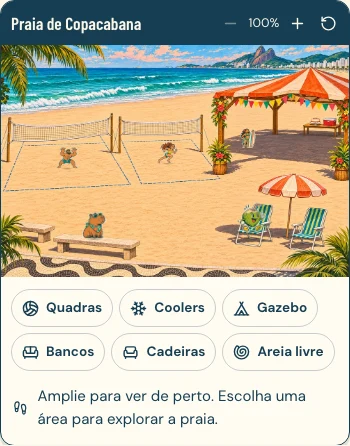
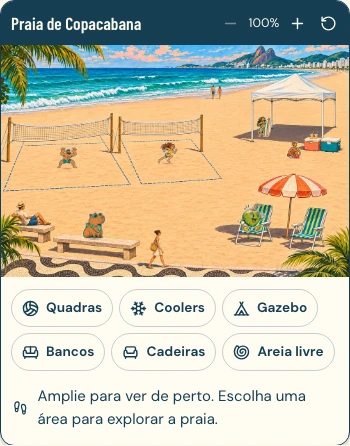
Refine the Copacabana playground and sticker gathering spots
Add four background beachgoers and replace the striped gazebo with a light white canopy. Align its snap points with the shade, give the coolers four gathering spots, and reserve the long bench for stickers.

Cover the revised placement zones in tests and refresh the desktop and mobile screenshots.

Changed region(s): [[0.5143, 0.1457, 1.0, 0.4081], [0.0286, 0.4372, 0.1429, 0.5247], [0.4, 0.4955, 0.4857, 0.6121]]

diff --git a/lib/beach.ts b/lib/beach.ts
@@ -47,25 +47,26 @@ export const zones = {
     name: "Coolers",
     line: "Tem gelo aí? A turma da hidratação tá de plantão.",
     width: 0.055,
-    regions: [path([1324, 399], [1493, 402], [1470, 447], [1310, 438])],
-    anchors: path([1386, 427], [1464, 430]),
+    regions: [
+      path([1180, 461], [1331, 431], [1505, 473], [1500, 558], [1240, 564]),
+    ],
+    anchors: path([1292, 502], [1436, 548], [1220, 486], [1334, 552]),
   },
   gazebo: {
     name: "Gazebo",
     line: "Na sombra sempre cabe mais uma cadeira.",
     width: 0.061,
-    regions: [path([995, 372], [1492, 369], [1454, 536], [1004, 512])],
-    anchors: path([1090, 453], [1256, 462], [1364, 490], [1174, 502]),
+    regions: [
+      path([1109, 400], [1195, 349], [1474, 356], [1418, 431], [1108, 438]),
+    ],
+    anchors: path([1160, 403], [1251, 383], [1354, 376], [1304, 425]),
   },
   torcida: {
     name: "Bancos",
     line: "Vale gritar ponto até quando a bola cai fora!",
     width: 0.083,
-    regions: [
-      path([68, 780], [237, 791], [225, 873], [80, 856]),
-      path([228, 832], [613, 856], [601, 949], [229, 919]),
-    ],
-    anchors: path([413, 856], [544, 868], [295, 850], [168, 802]),
+    regions: [path([228, 832], [613, 856], [601, 949], [229, 919])],
+    anchors: path([413, 856], [544, 868], [295, 850]),
   },
   cadeiras: {
     name: "Cadeiras",
@@ -126,9 +127,10 @@ export function placementAt(
 const beachEdge = path(
   [0, 321],
   [900, 223],
-  [934, 224],
-  [977, 396],
-  [1536, 413],
+  [1051, 218],
+  [1108, 394],
+  [1195, 350],
+  [1536, 359],
 );
 const edgeMargin = Math.max(...zoneIds.map((id) => zones[id].width)) / 2;
 export function playable(point: Point): Point {

diff --git a/tests/beach.test.ts b/tests/beach.test.ts
@@ -14,6 +14,7 @@ import {
   zoneAt,
   zoneIds,
   zones,
+  type Point,
 } from "../lib/beach";
 
 test("the saved center restores the same feet after panning, zooming and resizing", () => {
@@ -87,12 +88,25 @@ test("a nearby free seat snaps, occupied seats and open sand allow fine placemen
   );
 });
 
+test("four guests can gather at the coolers and the occupied small bench has no snap point", () => {
+  const group: Point[] = [];
+  for (const anchor of zones.coolers.anchors) {
+    const next = suggestSpot("coolers", group);
+    assert.deepEqual(next, { ...anchor, zone_id: "coolers" });
+    assert.deepEqual(nearbyAnchor(anchor, group), anchor);
+    group.push(next);
+  }
+  assert.equal(group.length, 4);
+  const occupiedBench = { x: 168 / 1536, y: 802 / 1024 };
+  assert.equal(nearbyAnchor(occupiedBench, []), undefined);
+});
+
 test("out-of-bounds drops stay on sand and every converted center fits the database", () => {
   for (const x of [-4, 0.32, 0.63, 0.85, 3]) {
     for (const y of [-5, 0.5, 2]) {
       const point = destination({ x, y }, [], true);
       assert.ok(point.y > 0.2 && point.y < 0.95);
-      if (x >= 0.85) assert.ok(point.y > 0.38);
+      if (x >= 0.85) assert.ok(point.y > 0.34);
       for (const sticker of stickerIds)
         assert.ok(
           placementSchema.safeParse(placementAt(point, sticker)).success,

diff --git a/tests/e2e-rsvp/beach.spec.ts b/tests/e2e-rsvp/beach.spec.ts
@@ -28,7 +28,7 @@ test("exploration, consent, gallery, intentional placement, reload and repositio
   await map.screenshot({ ...capture, path: info.outputPath("empty.png") });
   await request.post(mock + "/__control", { data: { populateBeach: true } });
   await page.reload();
-  await expect(scene.locator(".placed-sticker")).toHaveCount(5);
+  await expect(scene.locator(".placed-sticker")).toHaveCount(6);
   await map.screenshot({ ...capture, path: info.outputPath("populated.png") });
   await scene.getByRole("button", { name: "Gazebo", exact: true }).click();
   await expect(scene.locator(".beach-discovery")).toContainText("Na sombra");
@@ -122,7 +122,7 @@ test("exploration, consent, gallery, intentional placement, reload and repositio
           (await (await request.get(mock + "/__state")).json()).placements,
         ).length,
     )
-    .toBe(5);
+    .toBe(6);
   await scene.getByRole("button", { name: "Guardar lugar" }).click();
   await expect(scene.locator(".beach-feedback")).toHaveText("Lugar guardado!");
   const owner = "guest-test-maria";

diff --git a/components/beach/scene-viewport.tsx b/components/beach/scene-viewport.tsx
@@ -218,7 +218,7 @@ export function SceneViewport({
               draggable={false}
               onLoad={() => setFailed(false)}
               onError={() => setFailed(true)}
-              alt="Praia de Copacabana com duas quadras à esquerda, gazebo listrado à direita, bancos e cadeiras na areia."
+              alt="Praia de Copacabana com duas quadras à esquerda, gazebo branco e coolers à direita. Há banhistas à beira-mar, uma pessoa no banco e outra no calçadão."
             />
           </picture>
           {failed && (

diff --git a/tests/fixtures/neon-auth-server.ts b/tests/fixtures/neon-auth-server.ts
@@ -83,6 +83,7 @@ async function populateBeach() {
     ["Caio", "capivara", "torcida", 0],
     ["Bia", "surfista", "gazebo", 0],
     ["Davi", "coco", "cadeiras", 0],
+    ["Iara", "salva-vidas", "coolers", 0],
   ] as const;
   for (const [name, sticker, zone, index] of samples) {
     const { x, y } = placementAt(

diff --git a/docs/PRAIA.md b/docs/PRAIA.md
@@ -6,8 +6,8 @@ A seção **Expectativas** abre um mapa de Copacabana com seis áreas exploráve
 
 | Arquivo | Uso | Dimensões | Tamanho |
 | --- | --- | --- | --- |
-| [Copacabana](../public/beach/copacabana.webp) | Mapa detalhado e zoom | 1536 × 1024 | 530 KiB |
-| [Copacabana no celular](../public/beach/copacabana-small.webp) | Primeira vista em telas de até 700 px | 1000 × 667 | 239 KiB |
+| [Copacabana](../public/beach/copacabana.webp) | Mapa detalhado e zoom | 1536 × 1024 | 381 KiB |
+| [Copacabana no celular](../public/beach/copacabana-small.webp) | Primeira vista em telas de até 700 px | 1000 × 667 | 185 KiB |
 | [12 figurinhas](../public/beach/stickers/) | Álbum, convidados e rascunho | 256 × 256 cada | 305 KiB no total |
 
 A ilustração e as figurinhas foram produzidas para o convite com o ImageGen integrado. O original do mapa tem 1536 px de largura, abaixo dos 3000 px sugeridos no brief. Os PNGs de origem ficam fora do diretório público. O navegador carrega o mapa sob demanda e o álbum tem um pacote JavaScript separado. A caixa da cena reserva espaço antes de a imagem chegar. [Arte e prompt do mapa](art/copacabana.md) · [Inventário, folha original e prompt das figurinhas](art/stickers.md)
@@ -16,7 +16,7 @@ A ilustração e as figurinhas foram produzidas para o convite com o ImageGen in
 
 A arte, as áreas de interação e as figurinhas compartilham uma superfície de proporção 3:2. A vista inicial mostra o mapa inteiro no celular. Escolher uma área ou começar a posicionar uma figurinha amplia o mapa em telas estreitas. Com zoom, é possível deslizar a praia ou usar o botão de centralizar. Apenas o arraste iniciado sobre a própria figurinha captura o dedo.
 
-Os polígonos e os pontos sugeridos foram traçados sobre a ilustração de 1536 × 1024 e convertidos em frações. As duas quadras têm seis posições sugeridas ao todo. O gazebo tem quatro, os bancos têm quatro e cada cadeira tem uma. Há também lugares perto dos coolers e uma área de areia livre. O atalho dá preferência a um ponto desocupado. No arraste, um pequeno anel aparece junto a um ponto disponível e a figurinha se acomoda ali ao soltar. Em areia livre, ela fica onde foi solta. O mesmo editor aceita toque e setas do teclado, com Shift para um passo maior. Apenas **Guardar lugar** grava a alteração. [Geometria e catálogo](../lib/beach.ts)
+Os polígonos e os pontos sugeridos foram traçados sobre a ilustração de 1536 × 1024 e convertidos em frações. As duas quadras têm seis posições sugeridas ao todo. Há quatro lugares à sombra do gazebo branco, quatro ao redor dos coolers, três no banco comprido e um em cada cadeira. O banco menor já tem um banhista pintado. O atalho dá preferência a um ponto desocupado. No arraste, um pequeno anel aparece junto a um ponto disponível e a figurinha se acomoda ali ao soltar. Em areia livre, ela fica onde foi solta. O mesmo editor aceita toque e setas do teclado, com Shift para um passo maior. Apenas **Guardar lugar** grava a alteração. [Geometria e catálogo](../lib/beach.ts)
 
 As posições de interação usam a borda inferior visível de cada desenho. O aplicativo converte esse ponto no centro do quadrado antes de salvar. Na leitura, faz a conversão inversa com a largura definida pela área e a margem transparente da figurinha. Assim, os centros normalizados e os seis identificadores de área já gravados continuam válidos, sem migração. O ID histórico `torcida` identifica os bancos e `beira-mar` identifica a areia livre. Os limites da areia se aplicam ao reposicionar.
 
@@ -36,7 +36,7 @@ Inicialize o [schema da aplicação](../db/001_initial.sql) no banco Neon. O map
 
 As capturas abaixo usam convidados fictícios do servidor de testes. Não há convidados de exemplo no aplicativo.
 
-| Dispositivo | Praia vazia | Mapa com convidados | Seleção | Posicionamento com zoom |
+| Dispositivo | Praia sem figurinhas | Mapa com convidados | Seleção | Posicionamento com zoom |
 | --- | --- | --- | --- | --- |
 | Desktop | [Vista inicial](screenshots/beach/desktop-empty.webp) | [Mapa](screenshots/beach/desktop-populated.webp) | [Álbum](screenshots/beach/desktop-album.webp) | [Arraste](screenshots/beach/desktop-dragging.webp) |
 | Celular | [Vista inicial](screenshots/beach/mobile-empty.webp) | [Mapa](screenshots/beach/mobile-populated.webp) | [Álbum](screenshots/beach/mobile-album.webp) | [Arraste](screenshots/beach/mobile-dragging.webp) |

diff --git a/docs/art/copacabana.md b/docs/art/copacabana.md
@@ -1,8 +1,12 @@
 # Ilustração de Copacabana
 
-O [original em PNG](copacabana.png) registra a festa cheia. A edição para o playground usa esse original como referência no ImageGen integrado. O [WebP de 1536 × 1024](../../public/beach/copacabana.webp) e a [versão para celular](../../public/beach/copacabana-small.webp) mostram a mesma praia antes da chegada dos convidados. A ilustração inteira é uma camada raster.
+O [original em PNG](copacabana.png) registra a festa cheia. A edição atual foi feita no ImageGen integrado a partir da versão com a praia vazia. O [mapa de 1536 × 1024](../../public/beach/copacabana.webp) e a [versão para celular](../../public/beach/copacabana-small.webp) usam a mesma pintura. Os quatro banhistas e passantes fazem parte do fundo.
 
-## Prompt de edição
+## Prompt da edição atual
+
+Edit this exact 3:2 Copacabana playground painting. Keep camera, full-bleed framing, original landmark locations and scale of both nets, benches, striped chairs/parasol, corner palms, wave mosaic, clouds and coastline. Keep warm afternoon screen-printed travel-poster illustration. Replace the heavy timber striped gazebo in the upper right with a modest white square pop-up event canopy, plain white shallow peaked fabric roof (visible pale blue/cream fabric folds), four slender white metal legs, no flowers or bunting; fit it within the old footprint, a little smaller, leave clear shaded interior for guests. Make a compact, immediately recognizable refreshments nook just outside the canopy on its right/front flank: two picnic ice chests in soft coral and deep turquoise with ivory lids, handles and latches, a tiny drinks detail if useful. Keep open sand for several guests beside and in front of them, separated from the courts and chairs. Add just four quiet human figures, painted directly into this setting with soft outlines and shadows: two tiny distant waders/walkers on the sand beside the surf, one relaxed seated beachgoer on the far left small bench (keep the long bench empty), one subdued walker on the bottom wave promenade near its left or center edge. They must be scaled modestly, naturally in perspective, secondary to guest stickers; keep their whole figures visible. Keep existing usable open spaces, both volleyball courts, both striped chairs, canopy interior and refreshments nook empty of people. Same reference style, no sticker borders, text, labels, UI, or extra objects. Return only full finished landscape artwork, 1536x1024.
+
+## Prompt da edição anterior
 
 Edit this exact Copacabana illustration into the empty venue before the party. Preserve its 3:2 full-bleed framing, original viewpoint, landscape, bold hand-painted screen-print travel-poster craft and warm afternoon palette. Clear every person, animal, ball, bag, towel and loose decorative object. Retain the two adjacent empty volleyball courts with nets on the mid-left, the big coral-and-cream gazebo on the upper right with a wide clear opening, enough exposed shaded sand underneath to stand several guests. Keep just one small cake and a cooler on a narrow table tucked into the far right rear of the gazebo. Keep the two empty benches lower left and two empty striped beach chairs lower right, with one parasol. Keep original waves, distant skyline, corner fronds and the mosaic along the bottom. Simplify the texture of the sand, retain beautiful subtle grain and coherent sun shadows. Generous breathing room between landmarks for placing guest stickers. No people anywhere. No typography, UI, labels or markers. Return finished polished map artwork.
 
